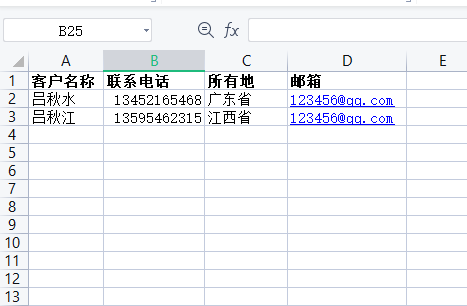
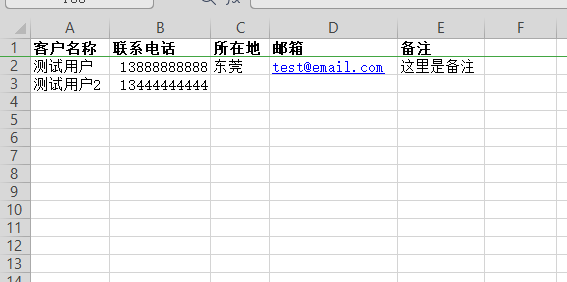
update

diff --git a/view/common/customer/index.html b/view/common/customer/index.html
@@ -448,9 +448,9 @@
                         type: 1,
                         title: false,
                         skin: 'layui-layer-rim',
-                        area: ['510px', '430px'],
+                        area: ['615px', '385px'],
                         content: `<div class="p-3">
-                           注：只能上传Excel表格，格式为:<br /> ['客户名称', '电话号码', '所在地', '邮箱']
+                           注：只能上传Excel表格，格式为:<br /> ['客户名称', '电话号码', '所在地', '邮箱', '备注']
                            <img src="__STATIC__/images/customer-example-import.png" class="pt-3" />
                         </div>`
                     });

diff --git a/view/home/hbcall/call_center.html b/view/home/hbcall/call_center.html
@@ -449,9 +449,9 @@
                 type: 1,
                 title: false,
                 skin: 'layui-layer-rim',
-                area: ['510px', '430px'],
+                area: ['615px', '385px'],
                 content: `<div class="p-3">
-                           注：只能上传Excel表格，格式为:<br /> ['客户名称', '电话号码', '所在地', '邮箱']
+                           注：只能上传Excel表格，格式为:<br /> ['客户名称', '电话号码', '所在地', '邮箱', '备注']
                            <img src="__STATIC__/images/customer-example-import.png" class="pt-3" />
                         </div>`
             })
